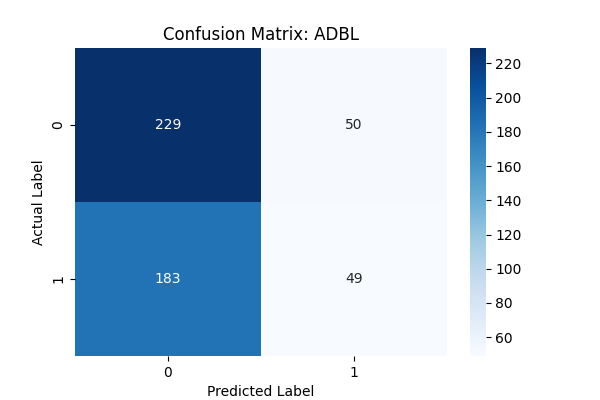
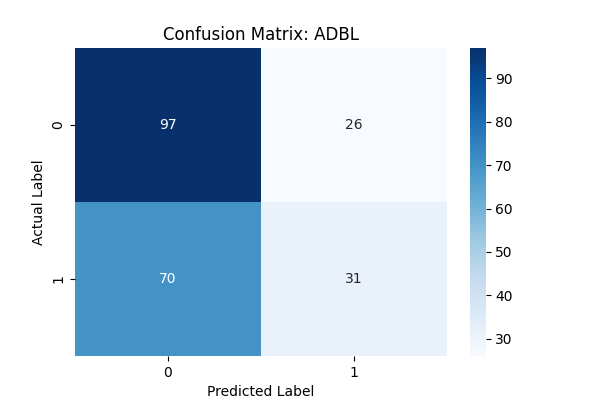
all wrapped done

diff --git a/main.py b/main.py
@@ -163,7 +163,7 @@ if __name__ == "__main__":
             print(report)
             
             #VISUAL
-            # generate_visual_evidence(model, X_test, y_test, stock_name) 
+            generate_visual_evidence(model, X_test, y_test, stock_name) 
         else:
             print(f"Error: {file_name} not found.")
 
